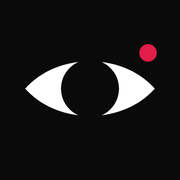
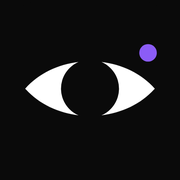
Pro Spectre : point de l'œil en violet
- Icône : œil blanc au point violet (#8B5CF6) sur fond noir, même
  violet que le point du logotype sur fond sombre ; favicon, icône
  iPhone et icône 192 px régénérés.

Claude-Session: https://claude.ai/code/session_01FQvcAbrAoghKvP1aeWPAF1

Changed region(s): [[0.75, 0.2222, 0.8889, 0.3611]]

diff --git a/prospectiq/src/components/logo.tsx b/prospectiq/src/components/logo.tsx
@@ -3,7 +3,7 @@ import { cx } from './styles';
 
 /**
  * Identité Pro Spectre : « Pro » en blanc dans un bloc violet, « Spectre », puis un point violet.
- * Icône seule : un œil blanc au point rouge sur fond noir.
+ * Icône seule : un œil blanc au point violet sur fond noir.
  */
 export const BRAND_VIOLET = '#7C3AED';
 /** Variante plus claire du violet, pour le point sur fond sombre (meilleur contraste). */
@@ -12,9 +12,10 @@ export const BRAND_VIOLET_LIGHT = '#8B5CF6';
 /** Œil de l'icône : deux croissants autour d'une pupille ajourée (tracé sans masque, sûr à répéter). */
 export const EYE_PATH =
   'M2 34C12.1 22.63 26.46 16.05 41.49 14.26A21.5 21.5 0 0 0 41.49 53.74C26.46 51.95 12.1 45.37 2 34ZM98 34C87.9 22.63 73.54 16.05 58.51 14.26A21.5 21.5 0 0 1 58.51 53.74C73.54 51.95 87.9 45.37 98 34Z';
-export const EYE_RED = '#E11D48';
+/** Point de l'œil : même violet clair que le point du logotype sur fond sombre. */
+export const EYE_DOT = BRAND_VIOLET_LIGHT;
 
-/** Icône carrée (onglet, application, petits formats) : œil blanc sur fond noir, point rouge. */
+/** Icône carrée (onglet, application, petits formats) : œil blanc sur fond noir, point violet. */
 export function BrandMark({ size = 32, className }: { size?: number; className?: string }) {
   return (
     <svg width={size} height={size} viewBox="0 0 40 40" aria-hidden="true" className={cx('shrink-0', className)}>
@@ -22,7 +23,7 @@ export function BrandMark({ size = 32, className }: { size?: number; className?:
       <rect x="0.5" y="0.5" width="39" height="39" rx="9.5" fill="none" stroke="#ffffff" strokeOpacity="0.14" />
       <g transform="translate(5 9.5) scale(0.3)">
         <path d={EYE_PATH} fill="#ffffff" />
-        <circle cx="93" cy="7.5" r="6.5" fill={EYE_RED} />
+        <circle cx="93" cy="7.5" r="6.5" fill={EYE_DOT} />
       </g>
     </svg>
   );

diff --git a/prospectiq/README.md b/prospectiq/README.md
@@ -102,7 +102,7 @@ Déjà en place : exclusion automatique des entreprises en opposition SIRENE, au
 ## Architecture
 
 - Next.js 15 (App Router), TypeScript, Tailwind CSS 4, React 19.
-- Identité : logotype « Pro » en blanc dans un bloc violet (#7C3AED), « Spectre » et un point violet (`src/components/logo.tsx`) ; icône carrée : œil blanc au point rouge sur fond noir (onglet, applications). Typos Poppins (logotype, titres) et Inter (texte), hébergées avec le site (aucune police chargée depuis un service tiers).
+- Identité : logotype « Pro » en blanc dans un bloc violet (#7C3AED), « Spectre » et un point violet (`src/components/logo.tsx`) ; icône carrée : œil blanc au point violet sur fond noir (onglet, applications). Typos Poppins (logotype, titres) et Inter (texte), hébergées avec le site (aucune police chargée depuis un service tiers).
 - PostgreSQL via `postgres` (production) ou PGlite (local, tests) — même SQL, migrations au démarrage (`src/lib/migrations.ts`).
 - Authentification maison : mots de passe scrypt, sessions opaques en base, cookie HttpOnly, contrôle d’origine (CSRF), limitation de débit en base.
 - Connecteurs modulaires : `src/lib/connectors/` (sirene, bodacc, geo, website, places). Un nouveau fournisseur (B2B payant, API sociale autorisée) s’ajoute en produisant le type `Company`/`Signal`.
